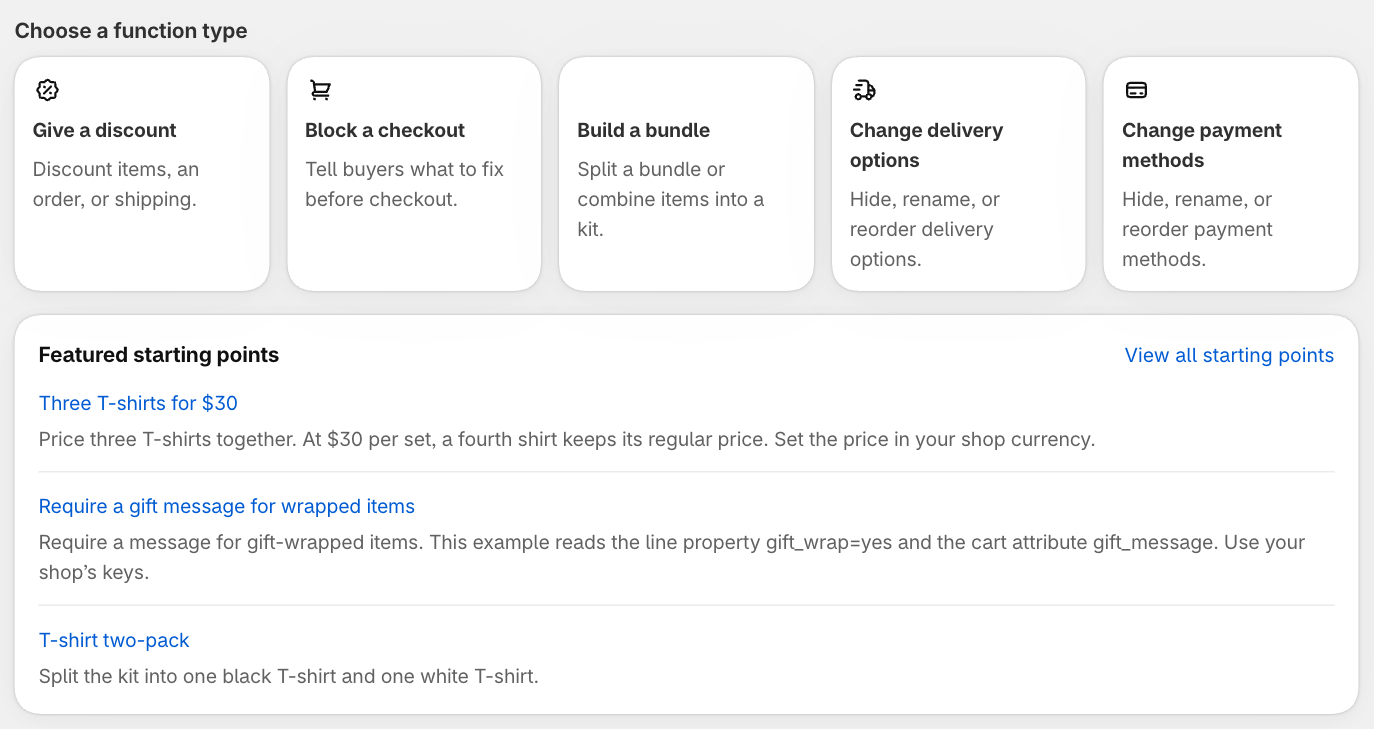
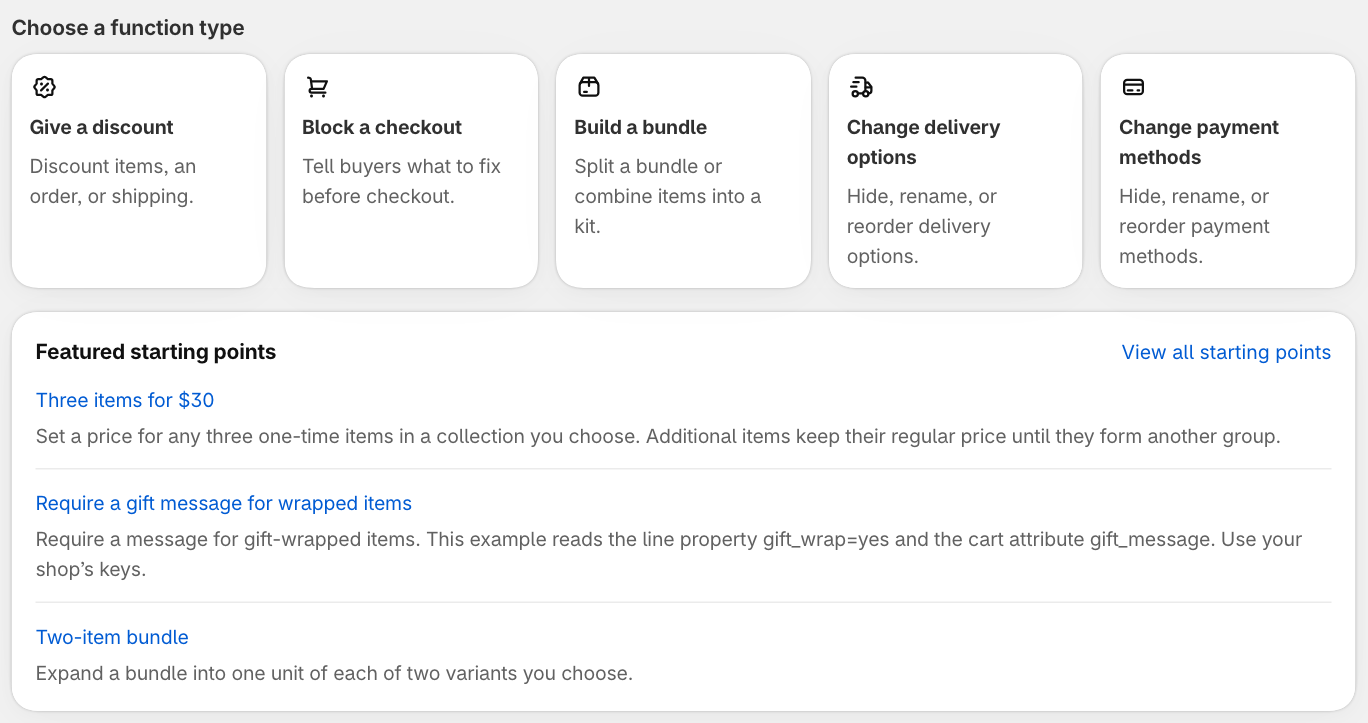
Show how to choose a collection for a Function starting point

diff --git a/core/functions.md b/core/functions.md
@@ -26,19 +26,19 @@ For a merged bundle, the kit costs the sum of its components. For a delivery or 
 
 ## Try a discount with a test cart
 
-Open **Functions** in Mechanic. If you already have functions, choose **Create function**. Open **Three T-shirts for $30** under **Featured starting points**. To build your own discount, choose **Give a discount** and select **Create blank rule**.
+Open **Functions** in Mechanic. If you already have functions, choose **Create function**. Open **Three items for $30** under **Featured starting points**. To build your own discount, choose **Give a discount** and select **Create blank rule**.
 
-<figure><img src="images/functions-starting-points.png" alt="The function type chooser with Three T-shirts for $30 under Featured starting points"><figcaption><p>Choose a type to start from scratch, or start with a rule you can edit.</p></figcaption></figure>
+<figure><img src="images/functions-starting-points.png" alt="The function type chooser with Three items for $30 under Featured starting points"><figcaption><p>Choose a type to start from scratch, or start with a rule you can edit.</p></figcaption></figure>
 
-In **Test cart**, choose **3 qualifying T-shirts**. The two black shirts cost $18 each and the white shirt costs $14. Together they would cost $50. The rule takes $20 off, bringing the total to $30.
+In **Test cart**, choose **3 qualifying items**. The sample cart uses clothing to illustrate the offer. The two black shirts cost $18 each and the white shirt costs $14. Together they would cost $50. The rule takes $20 off, bringing the total to $30.
 
 If a rule has several paths, the first path whose conditions match decides the outcome. If that path gives a discount on an item that is missing from the cart, the buyer gets no discount and later paths are skipped. To allow a later offer in that situation, add **Cart contains an item** to the first path and select the reward item.
 
-Switch to **2 qualifying T-shirts**. One black shirt and one white shirt cost $32. The buyer pays $32 because the offer needs a complete group of three. You can save either cart with its expected result and check it again after changing the rule.
+Switch to **2 qualifying items**. One black shirt and one white shirt cost $32. The buyer pays $32 because the offer needs a complete group of three. You can save either cart with its expected result and check it again after changing the rule.
 
 <figure><img src="images/functions-three-shirts.png" alt="The group-price rule beside a three-shirt cart showing a $50 subtotal, $20 discount, and $30 total"><figcaption><p>Only complete groups get the offer. A fourth eligible shirt keeps its regular price.</p></figcaption></figure>
 
-For a different offer, open **Every second T-shirt half price**. One $18 shirt stays at $18. Add a $14 shirt and the pair costs $25. With two of each, both $14 shirts get the discount.
+For a different offer, open **Every second item half price**. One $18 shirt stays at $18. Add a $14 shirt and the pair costs $25. With two of each, both $14 shirts get the discount.
 
 To try real items, choose **Try with my products** in the test cart. You can choose variants and test their selling prices before granting permission to publish. If the rule needs collection membership, product metafields, or other details the picker didn’t supply, Mechanic explains which product data it needs. You can keep testing with a sample cart.
 
@@ -58,7 +58,7 @@ In **Test cart**, choose **Edit cart** and change **Test checkout**. For a locat
 
 **Save draft** keeps your work in Mechanic. If an earlier version of the rule is live, shoppers continue to get that version.
 
-Before publishing a starter, choose the products or collections it should use in your shop. For an item discount, choose **Edit** beside **Discounted items** on the relevant path, select the variant or collection, and save the draft. If any are missing during review, choose **Choose missing resources**.
+Some starting points apply to all items. For an offer such as **Three items for $30**, choose the eligible collection from your shop before publishing. For an item discount, choose **Edit** beside **Discounted items** on the relevant path, select the variant or collection, and save the draft. If any are missing during review, choose **Choose missing resources**.
 
 If your saved rule needs more Shopify access, choose **Review Shopify permissions** above the test cart. You can keep testing while access is pending.
 
